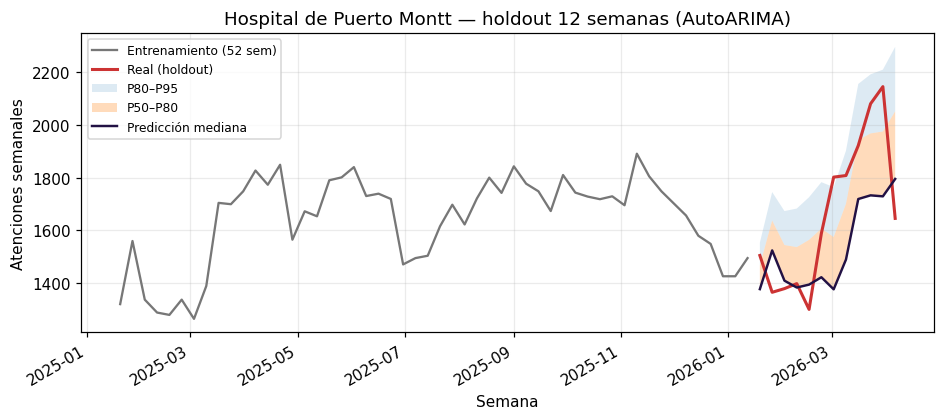
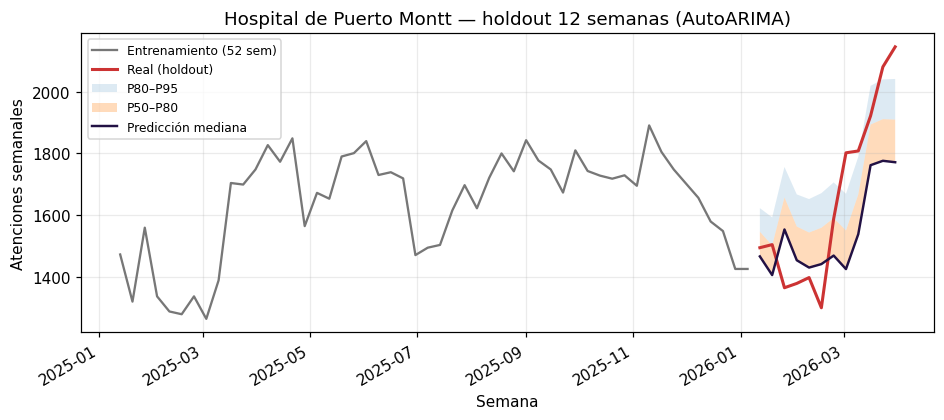
fix(deis): trim partial edge weeks in weekly aggregation; refresh papers
The DEIS holdout figure for Puerto Montt showed a drop in the final observed
week. Investigation confirmed it is a data-completeness artifact, not a real
decline: the most recent week (ending 2026-04-06) was missing one day in the
snapshot, and the same ISO weeks are flat/rising in every prior year. The old
_to_weekly only dropped a fully-partial trailing week, so this 6/7-day week was
kept and biased the backtest's last point.

- _to_weekly now trims partial weeks (< min_days, default 7) at BOTH edges,
  keeping internal weeks to preserve regular weekly spacing
- tests/test_demos.py: coverage for trailing/leading trim, internal-week
  retention, and the empty case
- regenerate the DEIS figures (docs/img + paper/figures); Puerto Montt holdout
  now ends on a complete week (2026-03-30, the real peak). AutoARIMA MAE
  204.9 -> 181.1; Frutillar unchanged (its data was complete)
- update preprint.md (abstract, obs counts, holdout dates, Table 1, discussion,
  caption, + a reporting-lag limitation) and paper.md figure caption; soften
  the README/README.es backtest wording accordingly
- CHANGELOG: note the fix
- also: set author ORCID 0009-0007-9249-3736 across paper.md, preprint.md,
  CITATION.cff, .zenodo.json

73 tests pass; ruff/format clean; twine check passes; CITATION.cff + .zenodo.json valid.

diff --git a/tests/test_demos.py b/tests/test_demos.py
@@ -1,0 +1,57 @@
+"""Tests for demo helpers that carry real methodological weight.
+
+`_to_weekly` must trim partial weeks at the series edges. DEIS is near-real-time,
+so the latest week is often under-counted (reporting lag or a missing day); if
+kept, it shows up as a spurious drop that contaminates the backtest.
+"""
+
+from __future__ import annotations
+
+import pandas as pd
+
+from urgencias_core.demos.deis import _to_weekly
+
+
+def _daily(start: str, periods: int, value: int = 100) -> pd.DataFrame:
+    dates = pd.date_range(start, periods=periods, freq="D")
+    return pd.DataFrame({"timestamp": dates, "count": value})
+
+
+def test_to_weekly_keeps_only_complete_weeks() -> None:
+    # 2024-01-02 is a Tuesday: four clean W-MON weeks (each ends on a Monday).
+    weekly = _to_weekly(_daily("2024-01-02", 28))
+    assert len(weekly) == 4
+    assert (weekly["count"] == 700).all()  # 7 days * 100
+
+
+def test_to_weekly_drops_trailing_incomplete_week() -> None:
+    # Drop the final day so the last W-MON bin has 6 of 7 days: it must be trimmed
+    # rather than reported as a low week.
+    daily = _daily("2024-01-02", 28).iloc[:-1]
+    weekly = _to_weekly(daily)
+    assert len(weekly) == 3
+    assert (weekly["count"] == 700).all()
+    assert weekly["timestamp"].max() == pd.Timestamp("2024-01-22")
+
+
+def test_to_weekly_drops_leading_incomplete_week() -> None:
+    # Start mid-week (2024-01-04 is a Thursday): the first W-MON bin is partial.
+    daily = _daily("2024-01-04", 26)  # partial first week, then full weeks
+    weekly = _to_weekly(daily)
+    assert (weekly["count"] == 700).all()
+    assert weekly["timestamp"].min() == pd.Timestamp("2024-01-15")
+
+
+def test_to_weekly_keeps_internal_low_week_to_preserve_spacing() -> None:
+    # A missing day in an INTERNAL week must not be dropped (that would break the
+    # regular weekly frequency); only edge weeks are trimmed.
+    daily = _daily("2024-01-02", 28)
+    daily = daily[daily["timestamp"] != pd.Timestamp("2024-01-10")]  # drop one mid day
+    weekly = _to_weekly(daily)
+    assert len(weekly) == 4  # nothing trimmed; still four contiguous weeks
+    assert weekly["count"].iloc[1] == 600  # the internal week is low (6 days), kept
+
+
+def test_to_weekly_empty_when_no_complete_week() -> None:
+    weekly = _to_weekly(_daily("2024-01-04", 3))  # only a few days, no full week
+    assert weekly.empty

diff --git a/src/urgencias_core/demos/deis.py b/src/urgencias_core/demos/deis.py
@@ -92,15 +92,24 @@ def _daily_totals(df: pd.DataFrame, facility_code: str) -> pd.DataFrame:
     return daily
 
 
-def _to_weekly(daily: pd.DataFrame) -> pd.DataFrame:
-    ts = daily.set_index("timestamp").resample("W-MON")["count"].sum().reset_index()
-    # Drop the final partial week if it does not cover a full week.
-    if len(ts) > 0:
-        last_day_expected = ts["timestamp"].iloc[-1]
-        data_end = daily["timestamp"].max()
-        if data_end < last_day_expected:
-            ts = ts.iloc[:-1]
-    return ts
+def _to_weekly(daily: pd.DataFrame, min_days: int = 7) -> pd.DataFrame:
+    """Aggregate daily counts to weekly totals (weeks ending Monday, W-MON).
+
+    Partial weeks at the series edges — fewer than ``min_days`` days present —
+    are trimmed. This matters most at the trailing edge: DEIS is updated in
+    near-real-time, so the latest week(s) can be under-counted by reporting lag
+    or a missing day and would otherwise appear as a spurious drop that
+    contaminates the backtest. Internal weeks are kept as-is to preserve regular
+    weekly spacing.
+    """
+    agg = daily.set_index("timestamp")["count"].resample("W-MON").agg(["sum", "count"])
+    complete = agg["count"] >= min_days
+    if not complete.any():
+        return pd.DataFrame(
+            {"timestamp": pd.to_datetime([]), "count": pd.Series([], dtype="int64")}
+        )
+    agg = agg.loc[complete.idxmax() : complete[::-1].idxmax()]
+    return agg["sum"].rename("count").reset_index()
 
 
 def _fit_and_predict(fc, train: pd.DataFrame, target: str, horizon: HorizonSpec) -> pd.DataFrame:

diff --git a/paper/preprint.md b/paper/preprint.md
@@ -2,7 +2,7 @@
 
 **Nicolás Vera Zúñiga**¹
 
-¹ Eunosia, Frutillar, Chile
+¹ Eunosia, Frutillar, Chile. ORCID: [0009-0007-9249-3736](https://orcid.org/0009-0007-9249-3736)
 
 *Draft preprint — v0.1.0. Intended for arXiv/medRxiv or a health-informatics venue.*
 
@@ -16,7 +16,7 @@
 
 **Methods.** The package converts visit-level records to an hourly occupancy census using an event cumulative-sum construction, engineers Chile-specific calendar features, exposes a uniform `Forecaster` interface over a seasonal-naive baseline, classical statistical models (AutoARIMA, AutoETS, AutoTheta, MSTL), and a per-quantile LightGBM model, and scores them with an evaluation harness using pinball (quantile) loss. A Monte Carlo engine propagates forecast uncertainty and an empirical length-of-stay (LOS) sampler into census bands. We ran a 12-week rolling-origin-free holdout backtest of weekly total ED attendances for two hospitals in the Servicio de Salud Reloncaví (Los Lagos, Chile) using the public DEIS MINSAL *Atenciones de Urgencia* dataset.
 
-**Results.** On the holdout, the harness selected different best models per site by P80 pinball loss: AutoARIMA for the high-complexity Hospital de Puerto Montt (mean absolute error [MAE] 204.9 weekly attendances, P80 pinball loss 65.2) and the seasonal-naive baseline for the low-complexity Hospital de Frutillar (MAE 47.2, P80 pinball loss 16.5). Point-accuracy and calibration rankings did not always agree, underscoring the value of selecting on the operationally relevant quantile.
+**Results.** On the holdout, the harness selected different best models per site by P80 pinball loss: AutoARIMA for the high-complexity Hospital de Puerto Montt (mean absolute error [MAE] 181.1 weekly attendances, P80 pinball loss 71.0) and the seasonal-naive baseline for the low-complexity Hospital de Frutillar (MAE 47.2, P80 pinball loss 16.5). Point-accuracy and calibration rankings did not always agree, underscoring the value of selecting on the operationally relevant quantile.
 
 **Conclusions.** `urgencias-core` lowers the barrier between published ED-forecasting methods and runnable, reproducible tooling. It is released under the MIT license, is installable from PyPI, and is archived on Zenodo. The DEIS demonstration is strictly methodological and is **not** an operational, clinical, or quality evaluation of any hospital.
 
@@ -40,7 +40,7 @@ Because visit-level ED data are sensitive, the package ships a synthetic generat
 
 For real-data demonstration we use the *Atenciones de Urgencia* open dataset published by the Departamento de Estadísticas e Información de Salud (DEIS), Ministerio de Salud de Chile [@deis], distributed under Chile's open-data framework. The dataset provides aggregated counts per facility, per date, per cause group; it does **not** contain visit-level timestamps, so it supports the forecasting layer but not the visit-level occupancy simulator. We use two hospitals in the Servicio de Salud Reloncaví (Los Lagos region): **Hospital de Puerto Montt** (DEIS code 24-105, high-complexity) and **Hospital de Frutillar** (24-115, low-complexity). These were chosen on geographic and pragmatic grounds (regional reference centers with publicly available data), not on any evaluation of quality.
 
-We model the "SECCIÓN 1. TOTAL ATENCIONES DE URGENCIA" total, summing daily counts to a weekly (`W-MON`) grain. The pandemic years 2020–2021 are excluded by default because their regime is not representative for planning the current period; a corrupted source header in the 2020 file makes it unusable without a bespoke parser in any case. The bundled offline snapshot covers 2021–2026 (through 2026-04-11), yielding 223 weekly observations per site after aggregation.
+We model the "SECCIÓN 1. TOTAL ATENCIONES DE URGENCIA" total, summing daily counts to a weekly (`W-MON`) grain. Partial weeks at the series edges are trimmed: DEIS is near-real-time, so the most recent week can be under-counted by reporting lag or a missing day, which would otherwise appear as a spurious end-of-series drop. The pandemic years 2020–2021 are excluded by default because their regime is not representative for planning the current period; a corrupted source header in the 2020 file makes it unusable without a bespoke parser in any case. After aggregation and edge-trimming, the bundled offline snapshot (2021–2026) yields 221 complete weekly observations for Puerto Montt and 222 for Frutillar (the two sites differ because a single day was missing from the most recent Puerto Montt week at snapshot time).
 
 **Framing.** The DEIS analysis is a methodological demonstration of how the forecasting tools behave on real Chilean hospital data. It is not an operational, clinical, or quality evaluation of either hospital.
 
@@ -86,7 +86,7 @@ On the synthetic fixture, the occupancy transform reproduces the expected diurna
 
 ### 4.2 DEIS 12-week holdout backtest
 
-We held out the last 12 weeks (2026-01-19 to 2026-04-06) as test and trained on the prior weeks, comparing all five forecasters. Selection uses P80 pinball loss (`qloss_80`). Table 1 reports the results.
+We held out the last 12 complete weeks per site (ending 2026-03-30 for Puerto Montt and 2026-04-06 for Frutillar, after trimming partial edge weeks) as test and trained on the prior weeks, comparing all five forecasters. Selection uses P80 pinball loss (`qloss_80`). Table 1 reports the results.
 
 **Table 1.** Twelve-week holdout metrics for weekly total ED attendances (lower is better; best `qloss_80` per site in bold).
 
@@ -94,25 +94,25 @@ We held out the last 12 weeks (2026-01-19 to 2026-04-06) as test and trained on 
 
 | Model | MAE | RMSE | MAPE | qloss_50 | qloss_80 |
 |---|---:|---:|---:|---:|---:|
-| SeasonalNaive | 199.6 | 261.4 | 0.11 | 99.8 | 129.6 |
-| **AutoARIMA** | 204.9 | 245.4 | 0.12 | 102.4 | **65.2** |
-| AutoETS | 260.0 | 328.5 | 0.14 | 130.0 | 101.3 |
-| AutoTheta | 255.8 | 322.8 | 0.14 | 127.9 | 107.0 |
-| MSTL | 191.0 | 213.5 | 0.11 | 95.5 | 78.3 |
+| SeasonalNaive | 203.8 | 262.6 | 0.11 | 101.9 | 129.3 |
+| **AutoARIMA** | 181.1 | 216.4 | 0.10 | 90.5 | **71.0** |
+| AutoETS | 266.4 | 357.3 | 0.14 | 133.2 | 115.6 |
+| AutoTheta | 266.4 | 357.3 | 0.14 | 133.2 | 118.4 |
+| MSTL | 172.7 | 204.4 | 0.10 | 86.3 | 76.0 |
 
 *Hospital de Frutillar (24-115, low-complexity)*
 
 | Model | MAE | RMSE | MAPE | qloss_50 | qloss_80 |
 |---|---:|---:|---:|---:|---:|
 | **SeasonalNaive** | 47.2 | 66.9 | 0.12 | 23.6 | **16.5** |
-| AutoARIMA | 62.7 | 74.2 | 0.16 | 31.3 | 22.3 |
-| AutoETS | 47.8 | 57.9 | 0.12 | 23.9 | 21.4 |
-| AutoTheta | 60.4 | 74.0 | 0.16 | 30.2 | 17.6 |
-| MSTL | 59.7 | 72.2 | 0.16 | 29.9 | 19.0 |
+| AutoARIMA | 65.5 | 77.2 | 0.17 | 32.8 | 22.7 |
+| AutoETS | 49.1 | 59.0 | 0.13 | 24.6 | 20.0 |
+| AutoTheta | 60.2 | 73.8 | 0.16 | 30.1 | 17.6 |
+| MSTL | 57.9 | 70.4 | 0.15 | 29.0 | 18.8 |
 
-Two observations stand out. First, the selected model differs by site: AutoARIMA for Puerto Montt, seasonal-naive for the smaller, noisier Frutillar series — a one-model-fits-all assumption would be wrong for at least one site. Second, point-accuracy and calibration rankings disagree: at Puerto Montt, MSTL has the best MAE/RMSE (191.0 / 213.5) but AutoARIMA has a markedly better P80 pinball loss (65.2 vs 78.3). Because operational planning uses upper quantiles for surge headroom, selecting on `qloss_80` rather than MAE is the appropriate choice, and the harness does so.
+Two observations stand out. First, the selected model differs by site: AutoARIMA for Puerto Montt, seasonal-naive for the smaller, noisier Frutillar series — a one-model-fits-all assumption would be wrong for at least one site. Second, point-accuracy and calibration rankings disagree: at Puerto Montt, MSTL has the best point accuracy (MAE 172.7, RMSE 204.4) but AutoARIMA has the best P80 calibration (pinball loss 71.0 vs 76.0). Because operational planning uses upper quantiles for surge headroom, selecting on `qloss_80` rather than MAE is the appropriate choice, and the harness does so.
 
-The holdout figure for Puerto Montt shows the true values falling inside the P80–P95 band for most weeks, indicating the selected model is reasonably calibrated over the horizon rather than merely accurate on average.
+The holdout figure for Puerto Montt (Figure 1) shows the observed series (red) rising into autumn and the AutoARIMA median with its P50–P80 and P80–P95 bands tracking that rise — once the incomplete final week is trimmed, the spurious end-of-series drop that near-real-time DEIS data would otherwise introduce is gone.
 
 ### 4.3 Operational forecast
 
@@ -129,6 +129,7 @@ The empirical-LOS Monte Carlo simulator is, to our knowledge, an unusually acces
 - **Aggregated DEIS data.** DEIS provides daily counts, not visit-level timestamps, so the occupancy simulator cannot be exercised on DEIS; the real-data demonstration covers the forecasting layer only.
 - **LOS vs. boarding.** The LOS sampler does not separate active clinical workup from boarding (waiting for an inpatient bed); distinguishing them requires an admission-decision timestamp not present in the current schema.
 - **Calendar approximations.** The school calendar is approximate and varies year to year; regional events are configurable but incomplete.
+- **Reporting lag / right-truncation.** DEIS is updated in near-real-time, so the most recent week(s) can be under-counted (reporting lag or a missing day). We trim partial edge weeks to avoid a spurious end-of-series drop, but any near-real-time run should treat the latest complete week with caution.
 - **Excluded years and single holdout.** 2020–2021 are excluded by default; the harness uses a single holdout rather than rolling-origin backtesting (a rolling backtest is on the roadmap).
 - **Scope.** The DEIS analysis is methodological and not a clinical or quality evaluation; results depend on the snapshot date and should be reproduced against the live source for any operational use.
 

diff --git a/README.es.md b/README.es.md
@@ -97,11 +97,12 @@ turnos.
 ### 4. Datos reales — backtest semanal sobre DEIS
 
 El demo DEIS corre la misma capa de forecasting contra atenciones de urgencia
-reales del Hospital de Puerto Montt. El holdout separa las últimas 12 semanas
-como test y entrena sobre las 52 previas. La figura muestra que `AutoARIMA`
-captura la mediana con el verdadero dentro de la banda P80–P95 en la mayoría de
-las semanas — evidencia de que el pipeline sintético no está sobreajustado al
-régimen de la fixture.
+reales del Hospital de Puerto Montt. El harness deja como test las últimas 12
+semanas completas (se recortan las semanas parciales de los bordes, porque los
+datos casi-en-tiempo-real de DEIS pueden subcontar la última semana) y entrena
+sobre la historia previa; `AutoARIMA` es seleccionado por pinball loss P80 y
+sigue el alza de otoño — evidencia de que el pipeline sintético no está
+sobreajustado al régimen de la fixture.
 
 ![Holdout 12 semanas Puerto Montt](docs/img/deis_holdout_hospital_base_puerto_montt.png)
 

diff --git a/paper/paper.md b/paper/paper.md
@@ -10,6 +10,7 @@ tags:
   - Chile
 authors:
   - name: Nicolás Vera Zúñiga
+    orcid: 0009-0007-9249-3736
     affiliation: 1
 affiliations:
   - name: Eunosia, Frutillar, Chile
@@ -84,9 +85,10 @@ demo is framed strictly as a methodological demonstration and is **not** an
 operational, clinical, or quality evaluation of any hospital.
 
 ![Twelve-week holdout backtest of weekly ED attendance at Hospital de Puerto
-Montt (real DEIS MINSAL data). The harness selects `AutoARIMA` here; the true
-values fall inside the P80–P95 band for most weeks. Model selection is repeated
-per site.\label{fig:holdout}](figures/deis_holdout_puerto_montt.png)
+Montt (real DEIS MINSAL data), after trimming partial edge weeks. Grey: training
+tail; red: observed holdout; blue: `AutoARIMA` median with P50–P80 and P80–P95
+bands. The harness selects `AutoARIMA` here by P80 pinball loss; selection is
+repeated per site.\label{fig:holdout}](figures/deis_holdout_puerto_montt.png)
 
 # Functionality and use
 

diff --git a/README.md b/README.md
@@ -98,10 +98,11 @@ bands 24 hours ahead — the basis for surge decisions and shift tables.
 ### 4. Real data — weekly backtest on DEIS
 
 The DEIS demo runs the same forecasting layer against real ED attendances from
-Hospital de Puerto Montt. The holdout separates the last 12 weeks as test and
-trains on the prior 52. `AutoARIMA` captures the median with truth inside the
-P80–P95 band for most weeks — evidence the pipeline isn't overfit to the
-synthetic regime.
+Hospital de Puerto Montt. The harness holds out the last 12 complete weeks
+(partial edge weeks are trimmed, since near-real-time DEIS data can under-count
+the latest week) and trains on the prior history; `AutoARIMA` is selected by P80
+pinball loss and tracks the autumn rise — evidence the pipeline isn't overfit to
+the synthetic regime.
 
 ![12-week holdout, Puerto Montt](https://raw.githubusercontent.com/nicoveraz/urg-forecast-core/main/docs/img/deis_holdout_hospital_base_puerto_montt.png)
 

diff --git a/CONTRIBUTING.md b/CONTRIBUTING.md
@@ -67,7 +67,6 @@ After the first release:
    section (DOI badge), and `paper/paper.md` if submitting to JOSS.
 
 For submitting the software paper (JOSS), the archived Zenodo DOI is required at
-submission; draft papers are under `paper/`. JOSS also expects each author to
-have an [ORCID](https://orcid.org/) (free to create). No author currently has
-one, so ORCID fields were omitted from `paper/paper.md`, `CITATION.cff`, and
-`.zenodo.json`; add them there before a JOSS submission.
+submission; draft papers are under `paper/`. Author ORCID and affiliation are
+set in `paper/paper.md`, `CITATION.cff`, and `.zenodo.json`; keep them in sync
+if authorship changes.

diff --git a/CHANGELOG.md b/CHANGELOG.md
@@ -35,6 +35,10 @@ First public release — the reference pipeline packaged for `pip install`.
 - Default server fixture resolved a repo-relative path (`parents[3]`) that
   escaped `site-packages` in an installed wheel; it now resolves the bundled
   fixture via `importlib.resources`.
+- DEIS weekly aggregation (`demos.deis._to_weekly`) now trims partial weeks at
+  both series edges, not only a fully-empty trailing week. A most-recent week
+  with a missing day (near-real-time reporting lag) was kept and appeared as a
+  spurious end-of-series drop that contaminated the backtest.
 
 ### Changed
 
